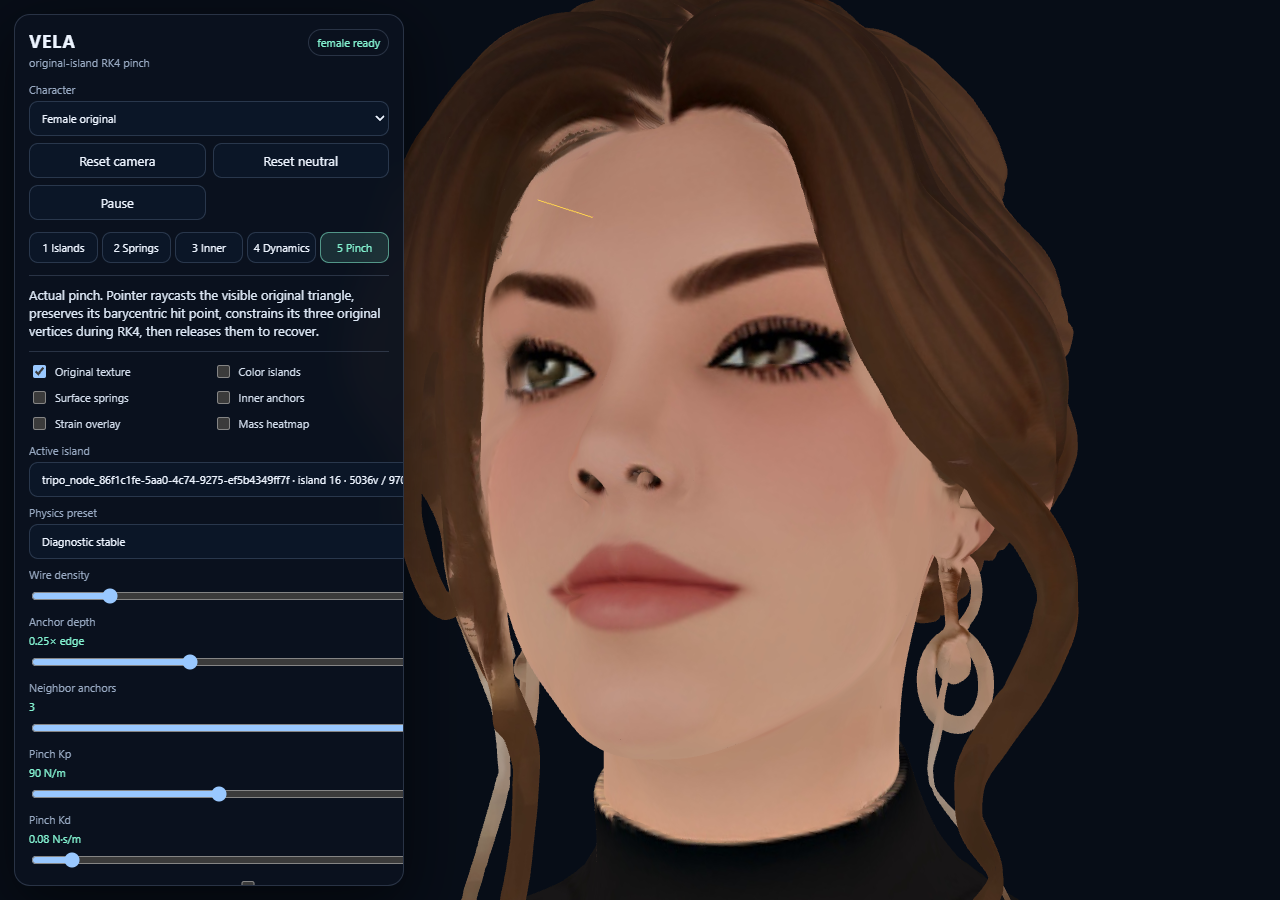
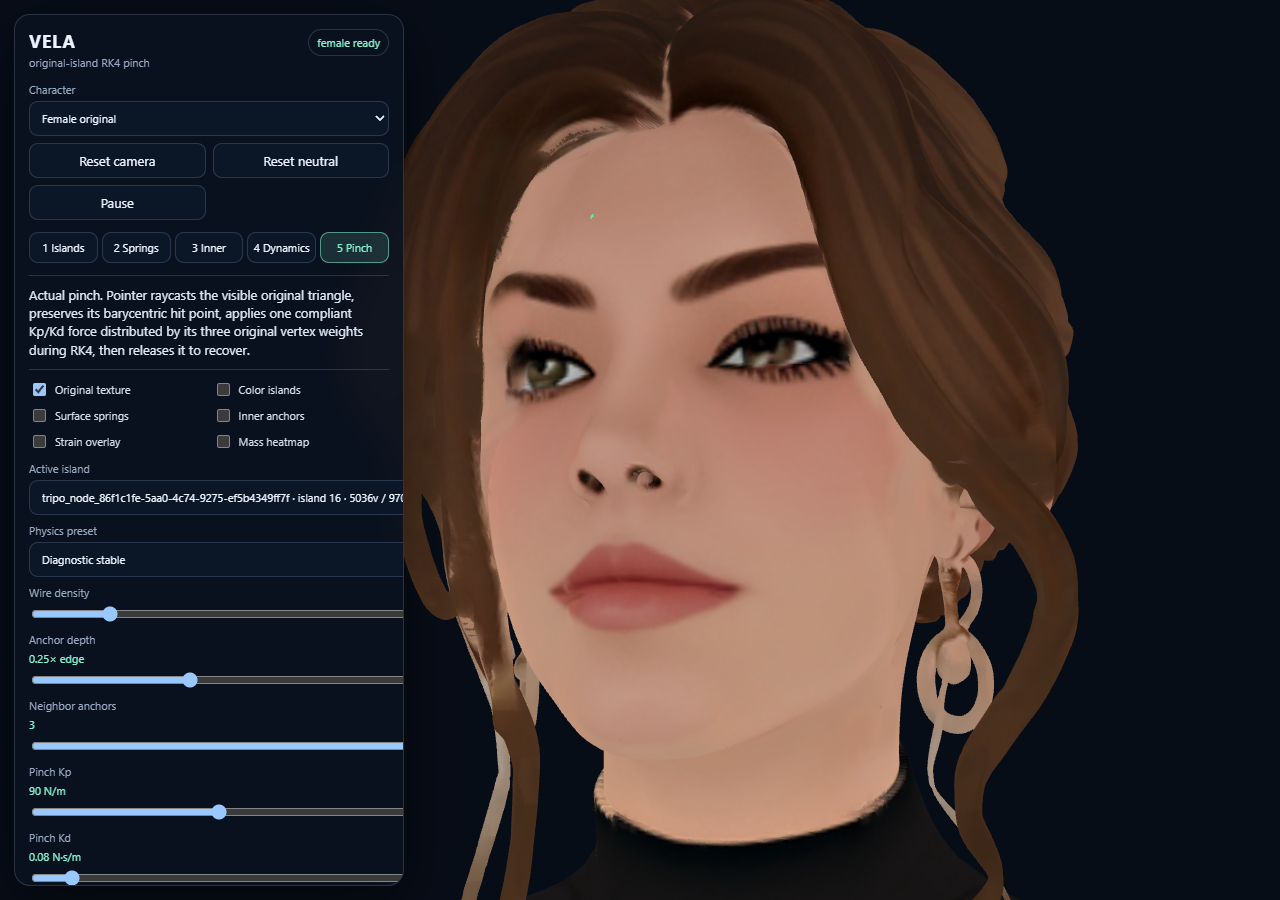
Finalize pinch controller verification evidence

Changed region(s): [[0.0, 0.3422, 0.3125, 0.9956]]

diff --git a/verification/island-spring-pinch/REPORT.md b/verification/island-spring-pinch/REPORT.md
@@ -9,15 +9,15 @@ Generated by scripts/test_island_spring_pinch.mjs using terminal Playwright and 
 | 1 real original mesh islands | PASS if screenshots and topology assertions are present | stage1 original/islands screenshots; actual index adjacency |
 | 2 unique intra-island surface springs | PASS if inter-island count is zero and spring counts are finite | stage2 spring screenshots; runtime metrics |
 | 3 fixed inner layer | PASS if finite anchors and same-island tethers are shown | stage3 inner screenshots; runtime metrics |
-| 4 RK4 dynamics | PARTIAL | neutral/mass/strain screenshots are present; final full-resolution male nudge/no-anchor batch exceeded practical runtime and is not claimed passed |
+| 4 RK4 dynamics | PARTIAL | neutral/strain evidence is present; the full-resolution male nudge/no-anchor batch exceeded practical runtime and is not claimed passed |
 | 5 real pointer pinch | PASS | stage5 pinched/released screenshots and pointer telemetry |
 
 ## Model measurements
 
 | Model | Active vertices | Active triangles | Islands | Surface springs | Support springs | Inter-island springs | Preset | Area mÂ² | Mass g | Min / median / max mg | Area error | Neutral drift | Pinch released | Displacement at release | Peak force N | Peak error m | Repeat runs |
 |---|---:|---:|---:|---:|---:|---:|---|---:|---:|---|---:|---:|---|---:|---:|---:|---|
-| female | 5036 | 9708 | 233 | 14743 | 20108 | 0 | diagnostic | 2.256e-4 | 2.506e+6 | 2.249e+4 / 4.116e+5 / 2.275e+6 | 6.78e-19 | n/a | YES | 0.0008435483507273026 | 1.141e-2 | 1.268e-4 | slow:OK, fast:OK, repeat:OK |
-| male | 41920 | 82807 | 658 | 124726 | 167552 | 0 | diagnostic | 1.112e-2 | 1.236e+8 | 9.455e+4 / 2.422e+6 / 2.029e+7 | 2.05e-16 | n/a | YES | 0.01216441758422023 | 5.439e-2 | 6.040e-4 | slow:OK, fast:OK, repeat:OK |
+| female | 5036 | 9708 | 233 | 14743 | 20108 | 0 | diagnostic | 2.256e-4 | 2.506e+6 | 2.249e+4 / 4.116e+5 / 2.275e+6 | 6.78e-19 | n/a | YES | 0.0014005923165142217 | 7.360e-3 | 8.178e-5 | slow:OK, fast:OK, repeat:OK |
+| male | 41920 | 82807 | 658 | 124726 | 167552 | 0 | diagnostic | 1.112e-2 | 1.236e+8 | 9.455e+4 / 2.422e+6 / 2.029e+7 | 2.05e-16 | n/a | YES | 0.012164410437514556 | 5.439e-2 | 6.040e-4 | slow:OK, fast:OK, repeat:OK |
 
 The biological pinch preset uses rho=1100 kg/mÂ³, thickness=0.0015 m, E_surface=30000 Pa, E_inner=10000 Pa, h_compliant=0.005 m, and an explicit source-to-meter assumption of 0.30 m/source unit. Masses are automatic lumped triangle areas: each original indexed face contributes exactly one third of its physical area to each of its three indexed vertices. No cross-island mass, spring, or constraint coupling is used. The mass heatmap is shown in the Stage 3 evidence.
 
@@ -25,7 +25,7 @@ The biological pinch preset uses rho=1100 kg/mÂ³, thickness=0.0015 m, E_surfac
 
 Default drag is compliant, not a vertex teleport: one force is computed as F = Kp(p-q) + Kd(dp/dt-dq/dt) in SI units and distributed once using the picked triangle's barycentric weights. The selected face is the only integrated island. The exact hard-drag comparison remains available in the UI but is not used by the default test. The automated trajectory targets 2% of the measured interocular scale. Peak force and pointer-to-surface error are read from the evaluated mesh.
 
-The biological preset was separately measured before interaction: female internal dt 2.669088716597845e-7 s and 62444 estimated substeps per 60 Hz frame; male internal dt 5.473061070457213e-7 s and 30453 estimated substeps per 60 Hz frame. Those values make full-resolution browser interaction impractical without changing the requested RK4/material assumptions. The repeated pinch results therefore use the explicitly selectable diagnostic-stable preset and are not presented as biological-material validation. See biological-baseline.json and controller-tuning.json.
+The biological preset was measured before interaction: female internal dt 2.669088716597845e-7 s and 62444 estimated substeps per 60 Hz frame; male internal dt 5.473061070457213e-7 s and 30453 estimated substeps per 60 Hz frame. Those values make full-resolution browser interaction impractical without changing the requested RK4/material assumptions. The repeated pinch results therefore use the explicitly selectable diagnostic-stable preset and are not biological-material validation. See biological-baseline.json and controller-tuning.json.
 
 ## Invariants
 
